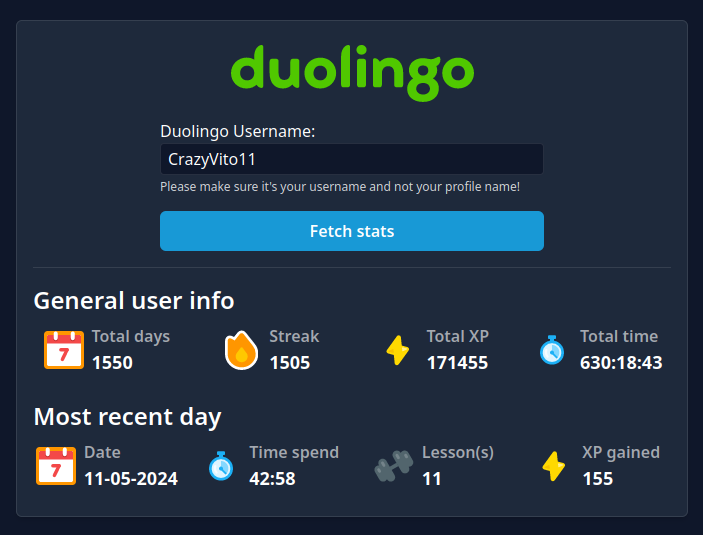
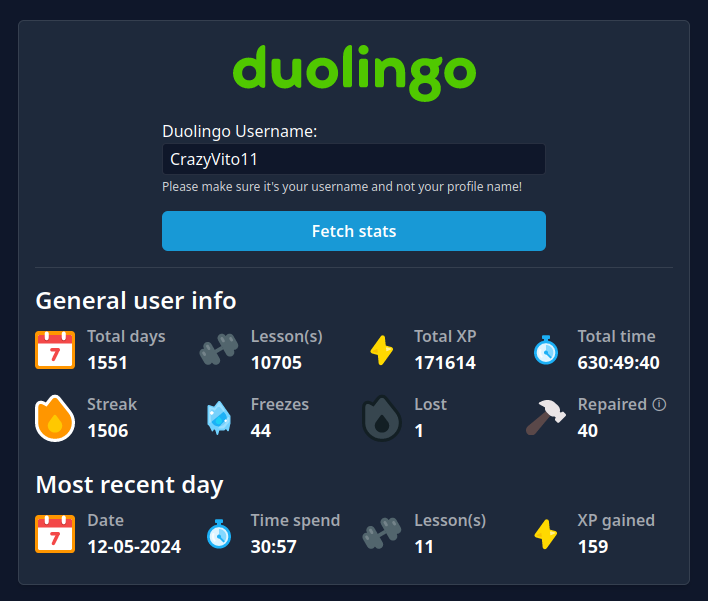
Added more streak information and fixed some alignment issues

diff --git a/frontend/src/components/UserStats.vue b/frontend/src/components/UserStats.vue
@@ -7,16 +7,16 @@
                 :value="userStatsData.totalDayCount"
             >
                 <template v-slot:icon>
-                    <CalendarIcon class="h-full"></CalendarIcon>
+                    <CalendarIcon class="w-full my-auto"></CalendarIcon>
                 </template>
             </StatItem>
 
             <StatItem
-                name="Streak"
-                :value="userStatsData.streak"
+                name="Lesson(s)"
+                :value="userStatsData.sessionCount"
             >
                 <template v-slot:icon>
-                    <StreakIcon class="h-full"></StreakIcon>
+                    <LessonIcon class="w-full my-auto"></LessonIcon>
                 </template>
             </StatItem>
 
@@ -25,7 +25,7 @@
                 :value="userStatsData.totalXp"
             >
                 <template v-slot:icon>
-                    <XpIcon class="h-full"></XpIcon>
+                    <XpIcon class="w-full my-auto"></XpIcon>
                 </template>
             </StatItem>
 
@@ -34,7 +34,44 @@
                 :value="secondsToFormattedString(userStatsData.totalTimeSpend)"
             >
                 <template v-slot:icon>
-                    <ClockIcon class="h-full"></ClockIcon>
+                    <ClockIcon class="w-full my-auto"></ClockIcon>
+                </template>
+            </StatItem>
+
+            <StatItem
+                name="Streak"
+                :value="userStatsData.streak"
+            >
+                <template v-slot:icon>
+                    <StreakIcon class="w-full my-auto"></StreakIcon>
+                </template>
+            </StatItem>
+
+            <StatItem
+                name="Freezes"
+                :value="userStatsData.frozenCount"
+            >
+                <template v-slot:icon>
+                    <StreakFreezeIcon class="w-full my-auto"></StreakFreezeIcon>
+                </template>
+            </StatItem>
+
+            <StatItem
+                name="Lost"
+                :value="userStatsData.streakLostCount"
+            >
+                <template v-slot:icon>
+                    <StreakLostIcon class="w-full my-auto"></StreakLostIcon>
+                </template>
+            </StatItem>
+
+            <StatItem
+                name="Repaired"
+                :value="userStatsData.streakRepairedCount"
+                :tooltip="'This number might be higher than the actual repairs that you used yourself.\nMy best guess is that Duolingo marks the streak as repaired after an outage.'"
+            >
+                <template v-slot:icon>
+                    <StreakRepairedIcon class="w-full my-auto"></StreakRepairedIcon>
                 </template>
             </StatItem>
         </section>
@@ -49,7 +86,7 @@
                 :value="userStatsData.mostRecentDayDateFormatted"
             >
                 <template v-slot:icon>
-                    <CalendarIcon class="h-full"></CalendarIcon>
+                    <CalendarIcon class="w-full my-auto"></CalendarIcon>
                 </template>
             </StatItem>
 
@@ -58,7 +95,7 @@
                 :value="secondsToFormattedString(userStatsData.mostRecentDay.totalSessionTime)"
             >
                 <template v-slot:icon>
-                    <ClockIcon class="h-full"></ClockIcon>
+                    <ClockIcon class="w-full my-auto"></ClockIcon>
                 </template>
             </StatItem>
 
@@ -67,7 +104,7 @@
                 :value="userStatsData.mostRecentDay.numSessions"
             >
                 <template v-slot:icon>
-                    <LessonIcon class="h-full"></LessonIcon>
+                    <LessonIcon class="w-full my-auto"></LessonIcon>
                 </template>
             </StatItem>
 
@@ -76,7 +113,7 @@
                 :value="userStatsData.mostRecentDay.gainedXp"
             >
                 <template v-slot:icon>
-                    <XpIcon class="h-full"></XpIcon>
+                    <XpIcon class="w-full my-auto"></XpIcon>
                 </template>
             </StatItem>
         </section>
@@ -88,6 +125,9 @@ import { defineProps } from 'vue';
 import { secondsToFormattedString } from '../helpers/timeHelper';
 import type UserStats from '../types/UserStats';
 import StreakIcon from './icons/StreakIcon.vue';
+import StreakFreezeIcon from './icons/StreakFreezeIcon.vue';
+import StreakLostIcon from './icons/StreakLostIcon.vue';
+import StreakRepairedIcon from './icons/StreakRepairedIcon.vue';
 import XpIcon from './icons/XpIcon.vue';
 import CalendarIcon from './icons/CalendarIcon.vue';
 import ClockIcon from './icons/ClockIcon.vue';

diff --git a/frontend/src/components/icons/StreakFreezeIcon.vue b/frontend/src/components/icons/StreakFreezeIcon.vue
@@ -1,0 +1,23 @@
+<template>
+    <svg viewBox="0 0 124 124" version="1.1" xmlns="http://www.w3.org/2000/svg">
+        <g stroke="none" stroke-width="1" fill="none" fill-rule="evenodd">
+            <g transform="translate(26 9)">
+                <path d="M40.754 2.02l29.783 42.822A8.162 8.162 0 0 1 72 49.502v16.92a8.162 8.162 0 0 1-1.877 5.208L55.168 89.678a5.83 5.83 0 0 1-4.49 2.11H27.724a5.83 5.83 0 0 1-3.41-1.1L1.936 74.547A4.664 4.664 0 0 1 0 70.765V17.339a4.664 4.664 0 0 1 6.162-4.417l14.45 4.9L33.265 1.793a4.664 4.664 0 0 1 7.49.227z" fill="#71D2FF"/>
+                <path d="M17.863 93.238c-.223.44-.547.804-.938 1.055-1.207.775-2.744.302-3.433-1.055L4.645 75.805H26.71l-8.847 17.433z" fill="#71D2FF"/>
+                <path d="M33.639 103.66a2.821 2.821 0 0 1-5.45 0l-5.89-21.988h17.229l-5.89 21.988zM65.346 93.653a2.817 2.817 0 0 1-3.898-.858l-6.432-10.081L71.71 67.997 66.578 91.89a2.83 2.83 0 0 1-1.232 1.764z" fill="#71D2FF"/>
+                <g>
+                    <g>
+                        <g>
+                            <path d="M10.679 51.434l-.209-20.13c-.03-3.017 1.582-5.231 4.372-4.736.556.098 1.733.464 2.26.752l5.814 3.168 7.261-9.313a6.647 6.647 0 0 1 10.484 0L53.825 38.06c.13.167.242.343.336.525 3.875 4.31 6.226 9.967 6.226 16.162 0 13.51-11.178 24.462-24.968 24.462-13.789 0-24.967-10.952-24.967-24.462 0-1.123.077-2.23.227-3.313z" fill="#1CB0F6"/>
+                            <path d="M28.051 56.63c.044-.139.11-.27.197-.388l4.987-6.76a2.618 2.618 0 0 1 4.213 0l4.987 6.76c.02.028.04.056.057.084 1.732 1.705 2.798 4.034 2.798 6.602 0 5.227-4.42 9.464-9.87 9.464-5.452 0-9.872-4.237-9.872-9.464 0-2.418.947-4.625 2.503-6.298z" fill="#1CDAF6" opacity=".75"/>
+                        </g>
+                    </g>
+                </g>
+                <path d="M8.124 17.834l15.021 5.424L34.917 5.674a2.332 2.332 0 0 1 3.888.018l14.798 22.56a2.332 2.332 0 0 1-.466 3.078L8.815 67.87A2.332 2.332 0 0 1 5 66.072V20.027a2.332 2.332 0 0 1 3.124-2.193z" fill="#B4E7FF" opacity=".593"/>
+                <rect fill="#FFF" transform="rotate(45 13.807 37.146)" x="8.971" y="32.295" width="9.672" height="9.701" rx="1.166"/>
+                <path d="M67.707 65.498L51.58 84.97a2.332 2.332 0 0 1-1.796.845h-13.45a2.332 2.332 0 0 1-1.69-3.938L64.22 50.742a2.332 2.332 0 0 1 4.023 1.606v11.663c0 .543-.19 1.069-.537 1.487z" fill="#B4E7FF" opacity=".593"/>
+                <rect fill="#FFF" transform="rotate(45 56.516 61.607)" x="53.049" y="58.129" width="6.934" height="6.955" rx="1.166"/>
+            </g>
+        </g>
+    </svg>
+</template>

diff --git a/backend/helpers/duolingoApi.ts b/backend/helpers/duolingoApi.ts
@@ -25,7 +25,7 @@ export async function fetchDataFromXpSummariesApi(userId: number): Promise<XpSum
     if (! response.ok) {
         throw new Error('Unable to fetch the XP summary');
     }
-  
+
     return await response.json();
 }
 
@@ -34,6 +34,8 @@ export function getUserStatsDataFromXpSummaries(summaries: Array<XpSummary>): Us
     let totalTimeSpend             = 0;
     let sessionCount               = 0;
     let frozenCount                = 0;
+    let streakLostCount            = 0;
+    let streakRepairedCount        = 0;
 
     summaries.forEach((summary: XpSummary) => {
         totalTimeSpend += summary.totalSessionTime;
@@ -41,6 +43,14 @@ export function getUserStatsDataFromXpSummaries(summaries: Array<XpSummary>): Us
 
         if (summary.frozen) {
             frozenCount++;
+        }
+
+        if (! summary.streakExtended && ! summary.frozen) {
+            streakLostCount++;
+        }
+
+        if (summary.repaired) {
+            streakRepairedCount++;
         }
     });
 
@@ -62,6 +72,8 @@ export function getUserStatsDataFromXpSummaries(summaries: Array<XpSummary>): Us
         mostRecentDay,
         mostRecentDayDateFormatted,
         sessionCount,
-        frozenCount
+        frozenCount,
+        streakLostCount,
+        streakRepairedCount,
     };
 }

diff --git a/frontend/src/components/StatItem.vue b/frontend/src/components/StatItem.vue
@@ -1,11 +1,15 @@
 <template>
-    <article class="flex flex-row items-center justify-center">
-        <section class="flex h-10 w-10 items-center justify-center">
+    <article class="flex flex-row">
+        <section class="flex h-full w-10 items-center justify-center">
             <slot name="icon"></slot>
         </section>
 
-        <section class="flex flex-col ml-2">
-            <p class="text-md font-semibold text-white/60" v-text="name"></p>
+        <section class="flex flex-col ml-3">
+            <section class="flex flex-row text-md font-semibold text-white/60">
+                <p v-text="name"></p>
+                <p v-if="tooltip" class="ml-1 cursor-help" :title="tooltip">ⓘ</p>
+            </section>
+
             <p class="text-lg font-bold text-white" v-text="value"></p>
         </section>
     </article>
@@ -16,6 +20,7 @@ import { defineProps } from 'vue';
 
 defineProps<{
     name: string,
-    value: string | number
+    value: string | number,
+    tooltip?: string | null
 }>();
 </script>

diff --git a/frontend/src/components/icons/StreakRepairedIcon.vue b/frontend/src/components/icons/StreakRepairedIcon.vue
@@ -1,0 +1,10 @@
+<template>
+    <svg viewBox="0 0 576 512" xmlns="http://www.w3.org/2000/svg">
+        <path fill="#b57660" opacity=".4" d="M285.5 162.1L27.4 377.1C10.1 391.6 0 413.1 0 435.7C0 477.8 34.1 512 76.3 512c22.6 0 44.1-10.1 58.6-27.4L350.7 225.6c-6.1-3.7-11.9-8.2-17.2-13.5l-38.1-38.1c-3.7-3.7-6.9-7.7-9.8-11.9z"/>
+        <path fill="#eae5e7" d="M333.5 212.1c21.8 21.8 51.9 30.2 80 25.4L431 255l-8 8c-9.4 9.4-9.4 24.6 0 33.9l24 24c9.4 9.4 24.6 9.4 33.9 0l88-88c9.4-9.4 9.4-24.6 0-33.9l-24-24c-9.4-9.4-24.6-9.4-33.9 0l-8 8-15.9-15.9c6.6-30.3-2.4-63.2-26.6-86l-44.6-42C389.2 14 353.9 0 317.2 0H299.2C279 0 259.1 4.2 240.7 12.4l-47.2 21c-5.6 2.5-9.2 7.9-9.5 14s3 11.8 8.3 14.7L272 105.5v12.1c0 21.1 8.4 41.4 23.3 56.3l38.1 38.1z"/>
+    </svg>
+</template>
+<script setup lang="ts">
+// I was unable to find the official Duolingo streak repaired icon in SVG format
+// Please let me know if you have a copy of it or replace this icon and provide a pull request
+</script>

diff --git a/frontend/src/components/icons/StreakLostIcon.vue b/frontend/src/components/icons/StreakLostIcon.vue
@@ -1,0 +1,6 @@
+<template>
+    <svg viewBox="0 0 25 30" fill="none" xmlns="http://www.w3.org/2000/svg">
+        <path d="M1.068 16.6751L1.044 8.21605C1.039 6.33405 2.25 4.94205 4.056 5.24605C4.413 5.30605 4.998 5.49105 5.306 5.65605L6.997 6.56105L10.247 2.46405C10.7926 1.77644 11.6223 1.37561 12.5 1.37561C13.3777 1.37561 14.2074 1.77644 14.753 2.46405L21.523 11.0001C23.1231 12.9393 23.9989 15.3748 24 17.8891C24 24.0341 18.843 29.0001 12.5 29.0001C6.157 29.0001 1 24.0341 1 17.8891C1 17.4811 1.023 17.0761 1.068 16.6751Z" fill="#37464F" stroke="#131F24" stroke-width="2"/>
+        <path d="M9.012 17.077C9.02645 17.04 9.04561 17.0051 9.069 16.973L11.719 13.364C11.8931 13.1267 12.1697 12.9866 12.464 12.9866C12.7583 12.9866 13.0349 13.1267 13.209 13.364L15.732 16.8C16.5412 17.5948 16.9979 18.6808 17 19.815C17 22.208 14.985 24.148 12.5 24.148C10.015 24.148 8 22.208 8 19.815C8 18.776 8.38 17.823 9.012 17.077Z" fill="#131F24"/>
+    </svg>
+</template>

diff --git a/backend/routes/api.ts b/backend/routes/api.ts
@@ -35,6 +35,8 @@ router.get('/stats/:username', async (req: Request, res: Response, next: NextFun
             mostRecentDayDateFormatted: userStats.mostRecentDayDateFormatted,
             sessionCount: userStats.sessionCount,
             frozenCount: userStats.frozenCount,
+            streakLostCount: userStats.streakLostCount,
+            streakRepairedCount: userStats.streakRepairedCount,
         });
     } catch (e) {
         next(e);

diff --git a/backend/types/UserStatsData.ts b/backend/types/UserStatsData.ts
@@ -7,5 +7,7 @@ export default interface UserStatsData {
     mostRecentDay?: XpSummary,
     mostRecentDayDateFormatted: string,
     sessionCount: number,
-    frozenCount: number
+    frozenCount: number,
+    streakLostCount: number,
+    streakRepairedCount: number,
 };

diff --git a/frontend/src/types/UserStats.ts b/frontend/src/types/UserStats.ts
@@ -12,5 +12,7 @@ export default interface UserStats {
     mostRecentDay?: XpSummary,
     mostRecentDayDateFormatted: string,
     sessionCount: number,
-    frozenCount: number
+    frozenCount: number,
+    streakLostCount: number,
+    streakRepairedCount: number,
 }

diff --git a/README.md b/README.md
@@ -4,6 +4,16 @@ Simple website that gets some more detailed stats from Duolingo.
 <img src="./assets/ui_preview.png" alt="Screenshot of the Duostats application" width="500" />
 
 
+## Known issues
+There are a couple of known issues that have a very minimal impact, but are reported here.
+
+- An unofficial icon is used for the streak repaired statistic due to a lack of the original in SVG format.
+    - If you have the official icon in SVG format, then please let me know or create a pull request with the unofficial icon replaced.
+- The streak repaired statistic might be higher than the actual amount that you used.
+    - We don't know the real reason, but our best guess is that Duolingo marks the streak as repaired after an outage.
+    - We are unsure if we can resolve this issue in the future and for this reason this warning has also been implemented on the site itself.
+
+
 ## Setup
 To setup an environment for general use, you need to follow these steps:
 
